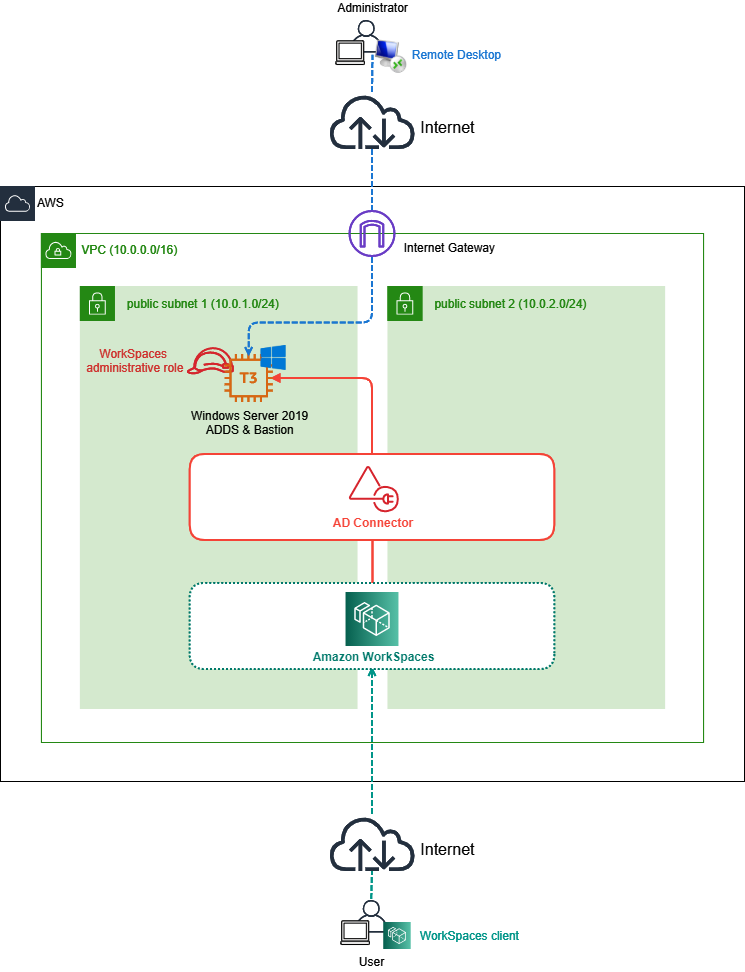
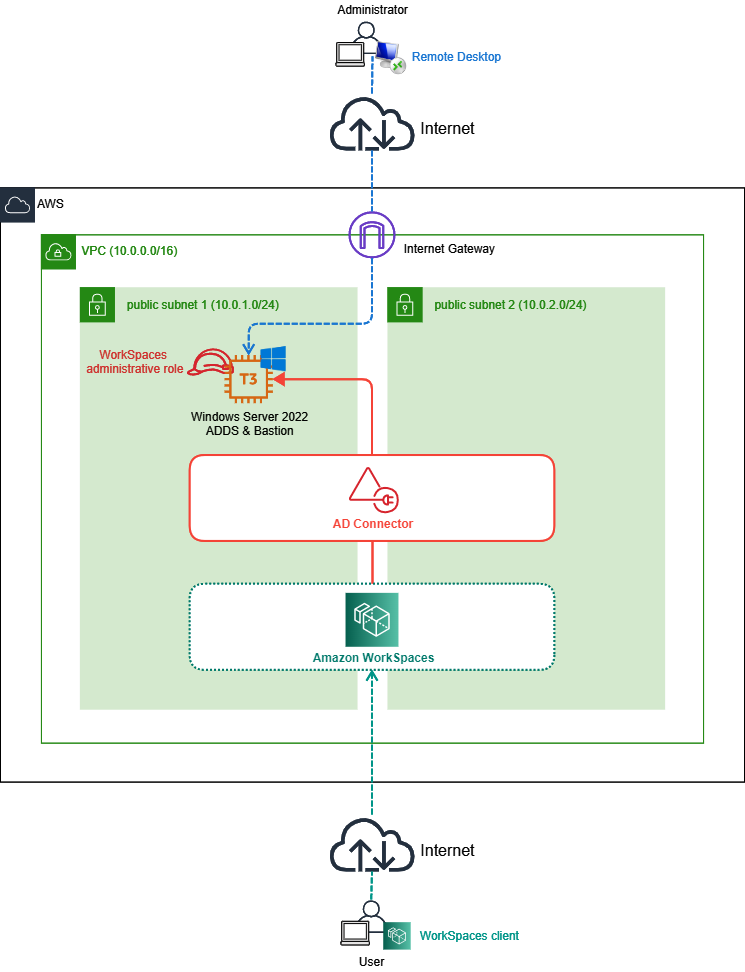
Update default version up to Windows Server 2022.

diff --git a/workspaces-trial-stack/README.md b/workspaces-trial-stack/README.md
@@ -6,7 +6,7 @@
 
 ![Architecture](./assets/architecture.png)
 
-`10.0.0.0/16`のVPCに2つのPublic Subnet(`10.0.1.0/24`, `10.0.2.0/24`)を作成、その中にドメインコントローラー兼踏み台サーバーとなるWindows Server 2019 EC2インスタンスを1台、AD Connector、WorkSpacesを配置する構成となります。 
+`10.0.0.0/16`のVPCに2つのPublic Subnet(`10.0.1.0/24`, `10.0.2.0/24`)を作成、その中にドメインコントローラー兼踏み台サーバーとなるWindows Server 2022 EC2インスタンスを1台、AD Connector、WorkSpacesを配置する構成となります。 
 
 EC2インスタンスではCLI(AWS Tools for PowerShell)によるWorkSpacesの管理も行える様にWorkSpacesの管理者相当の権限をもつIAMロールをアタッチしてます。  
 このロールは初期導入時にも利用されます。    
@@ -54,7 +54,7 @@ use1-az5 us-east-1f
 use1-az6 us-east-1a
 ```
 
-## 構成上の注意点
+## :warning: 構成上の注意点 :warning:
 
 本テンプレートでは簡易にWorkSpacesを試すためにいくつか本番環境では推奨されない構成を採っています。  
 このため本テンプレートを本番環境で使わないでください。  
@@ -112,7 +112,7 @@ CloudFormationテンプレート [WorkSpacesTrial.yaml](./WorkSpacesTrial.yaml) 
 |AZ1|Public Subnet1を配備するAvailability Zone名|-||
 |AZ2|Public Subnet2を配備するAvailability Zone名|-||
 |KeyPairName|EC2で使用するキーペア名|-|キーペアは事前に作成しておいてください|
-|WindowsLatestAmi|EC2のAMI|/aws/service/ami-windows-latest/Windows_Server-2019-Japanese-Full-Base|英語OS : /aws/service/ami-windows-latest/Windows_Server-2019-English-Full-Base も利用可能|
+|WindowsLatestAmi|EC2のAMI|/aws/service/ami-windows-latest/Windows_Server-2022-Japanese-Full-Base|英語OS : /aws/service/ami-windows-latest/Windows_Server-2022-English-Full-Base も利用可能|
 |MaintenanceCIDR|EC2に接続可能なCIDR|1.2.3.4/32|ここで指定したCIDRからのみRDP接続できます|
 |DomainDNSName|作成されるActive DirectoryのDNS名|corp.contoso.com||
 |DomainNetBIOSName|作成されるActive DirectoryのNetBIOS名|corp||
